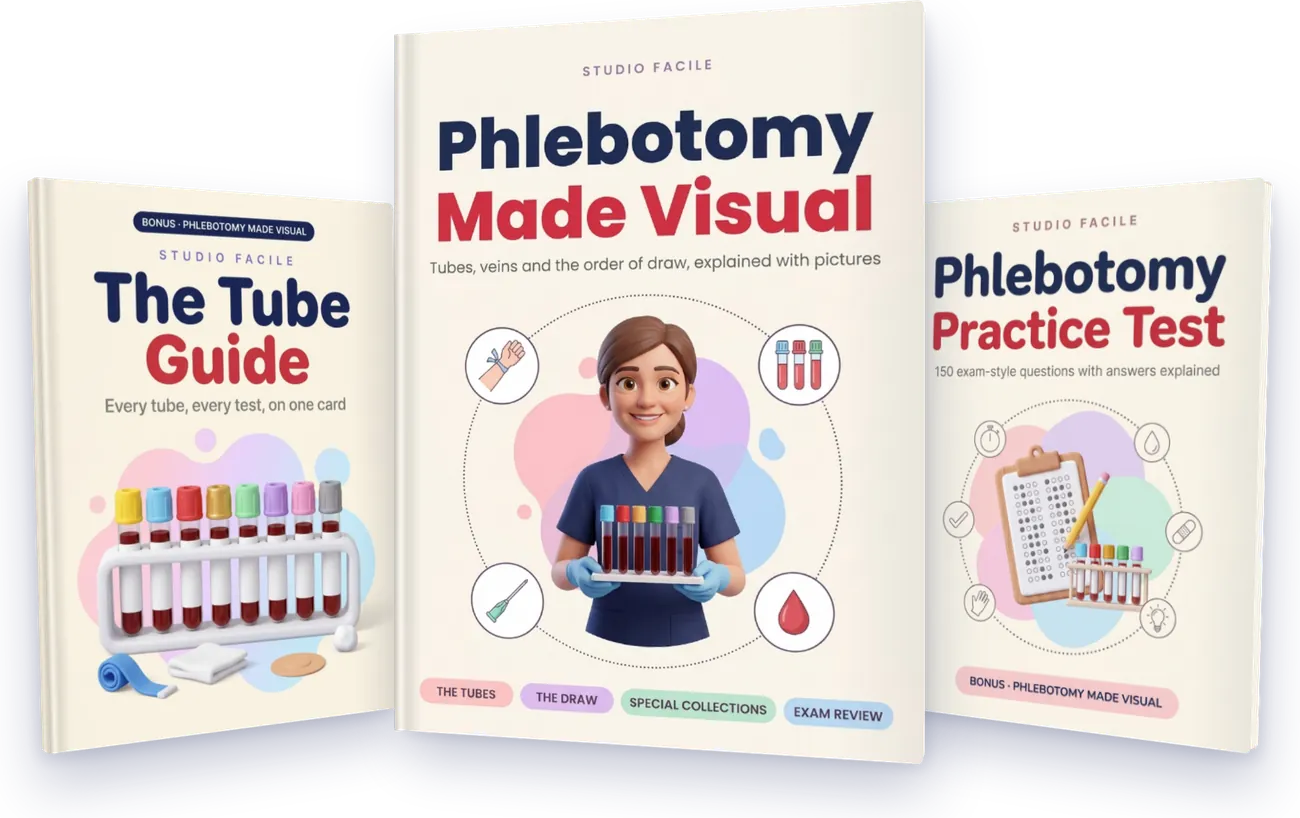
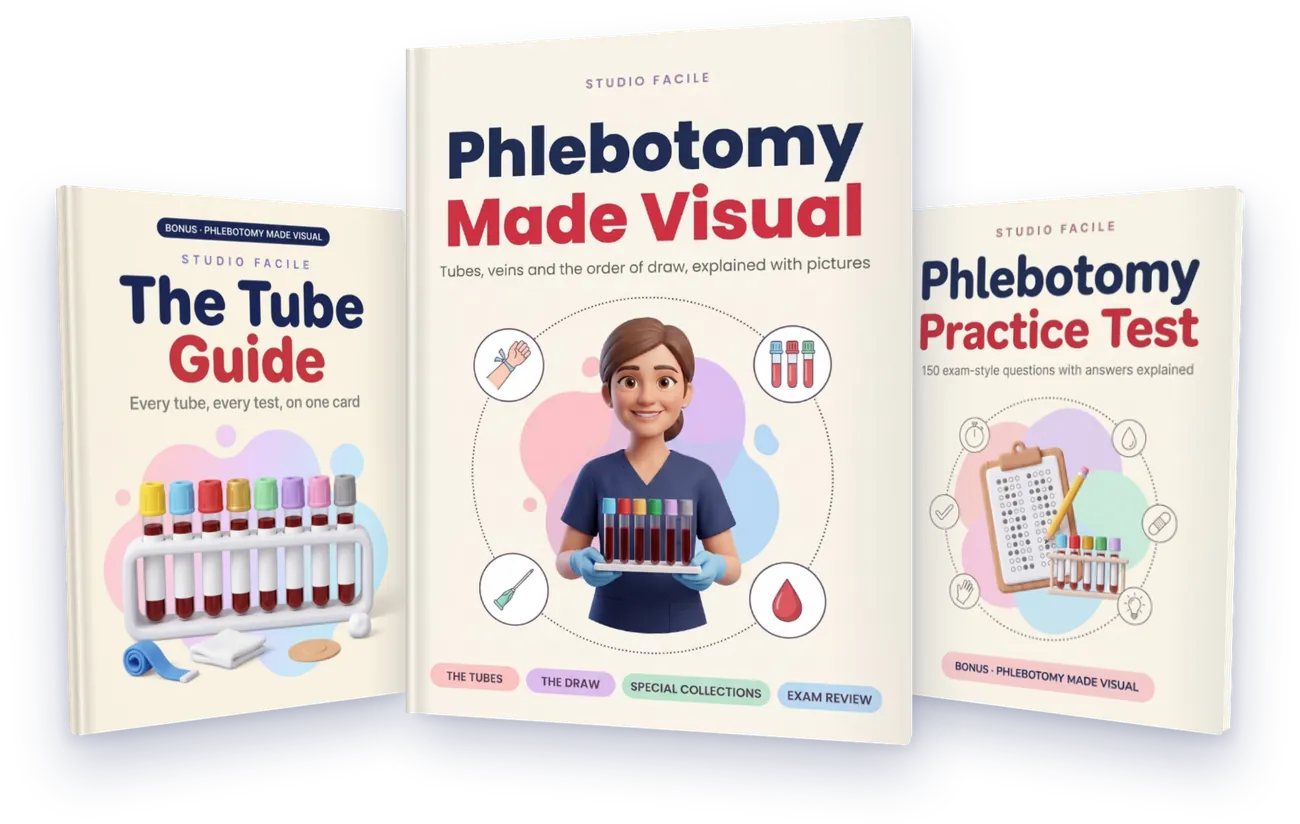
Phlebotomy: sombra del kit sin recorte y kit mas grande en escritorio

diff --git a/phlebotomy/index.html b/phlebotomy/index.html
@@ -118,6 +118,7 @@ svg{width:1em;height:1em;fill:none;stroke:currentColor;stroke-width:2;
   .hero-txt{grid-area:txt;text-align:left;align-self:end}
   .hero-pie{grid-area:pie;align-self:start}
   .hero-img{grid-area:img;max-width:none}
+  .hero-img img{transform:scale(1.1);transform-origin:center}
   .hero .bajada,.hero .sub{margin-left:0}
   .hero .sub{font-size:17.5px}
   .hero .btn{margin-left:0}
@@ -404,7 +405,7 @@ body.con-pega .pie{padding-bottom:110px}
     </div>
     <div class="hero-img">
       <img src="kit.webp" alt="The three books: Phlebotomy Made Visual, The Tube Guide and Phlebotomy Practice Test"
-            width="1300" height="818" loading="eager" fetchpriority="high" decoding="async">
+            width="1300" height="824" loading="eager" fetchpriority="high" decoding="async">
     </div>
     <div class="hero-pie">
       <ul class="ventajas">
@@ -701,7 +702,7 @@ body.con-pega .pie{padding-bottom:110px}
     <div class="oferta">
       <div class="oferta-top"><h3>Phlebotomy Made Visual &middot; the kit</h3></div>
       <div class="oferta-img">
-        <img src="kit.webp" alt="The three books"  width="1300" height="818"
+        <img src="kit.webp" alt="The three books"  width="1300" height="824"
              loading="lazy" decoding="async">
       </div>
       <div class="oferta-cuerpo">
